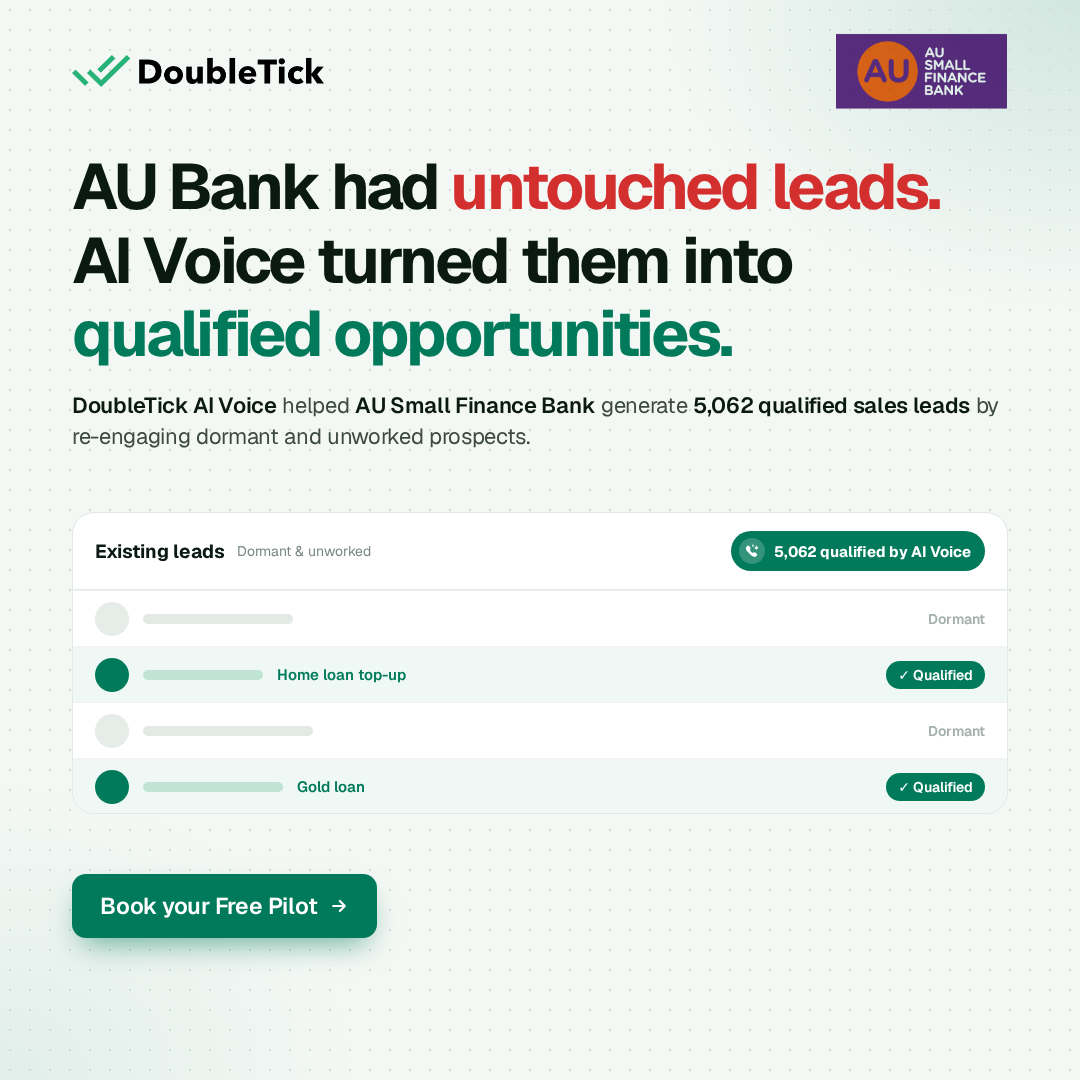
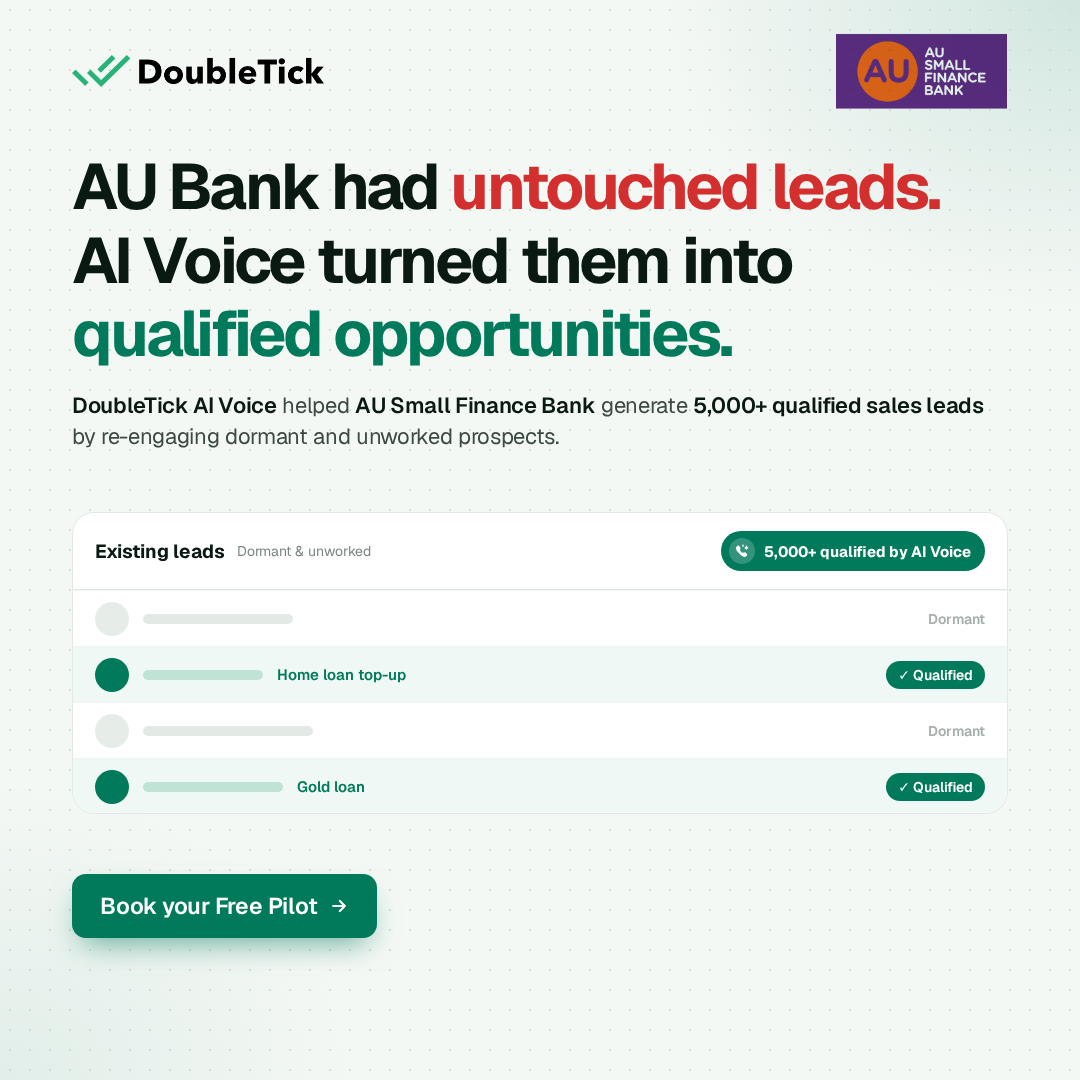
feat: AU v10 uses 5,000+ instead of 5,062
Claude-Session: https://claude.ai/code/session_013Hi5o4KgvuLbKTeGkStAKX

Changed region(s): [[0.0611, 0.3972, 0.5194, 0.4278], [0.6722, 0.3667, 0.9167, 0.3972], [0.6722, 0.4889, 0.7639, 0.55]]

diff --git a/ads/doubletick-case-au-v10/index.html b/ads/doubletick-case-au-v10/index.html
@@ -44,10 +44,10 @@
   <div class="top"><img class="logo" src="doubletick-logo.webp" alt="DoubleTick" /><img class="client" src="au-bank-logo.png" alt="AU Small Finance Bank" /></div>
 
   <h1>AU Bank had <span style="color:#D32F2F">untouched leads.</span><br/>AI Voice turned them into<br/><em>qualified opportunities.</em></h1>
-  <p class="sub"><b>DoubleTick AI Voice</b> helped <b>AU Small Finance Bank</b> generate <b>5,062 qualified sales leads</b> by re-engaging dormant and unworked prospects.</p>
+  <p class="sub"><b>DoubleTick AI Voice</b> helped <b>AU Small Finance Bank</b> generate <b>5,000+ qualified sales leads</b> by re-engaging dormant and unworked prospects.</p>
 
   <div class="vis">
-    <div class="lh"><span class="tt">Existing leads</span><span class="ct">Dormant &amp; unworked</span><span class="ai"><span><img src="icons/ai-call.svg" width="16" height="16" alt="" /></span>5,062 qualified by AI Voice</span></div>
+    <div class="lh"><span class="tt">Existing leads</span><span class="ct">Dormant &amp; unworked</span><span class="ai"><span><img src="icons/ai-call.svg" width="16" height="16" alt="" /></span>5,000+ qualified by AI Voice</span></div>
     <div class="row"><span class="av"></span><span class="ln" style="width:150px"></span><span class="tg">Dormant</span></div><div class="row q"><span class="av"></span><span class="ln" style="width:120px"></span><span class="need">Home loan top-up</span><span class="tg">✓ Qualified</span></div><div class="row"><span class="av"></span><span class="ln" style="width:170px"></span><span class="tg">Dormant</span></div><div class="row q"><span class="av"></span><span class="ln" style="width:140px"></span><span class="need">Gold loan</span><span class="tg">✓ Qualified</span></div>
   </div>
 
